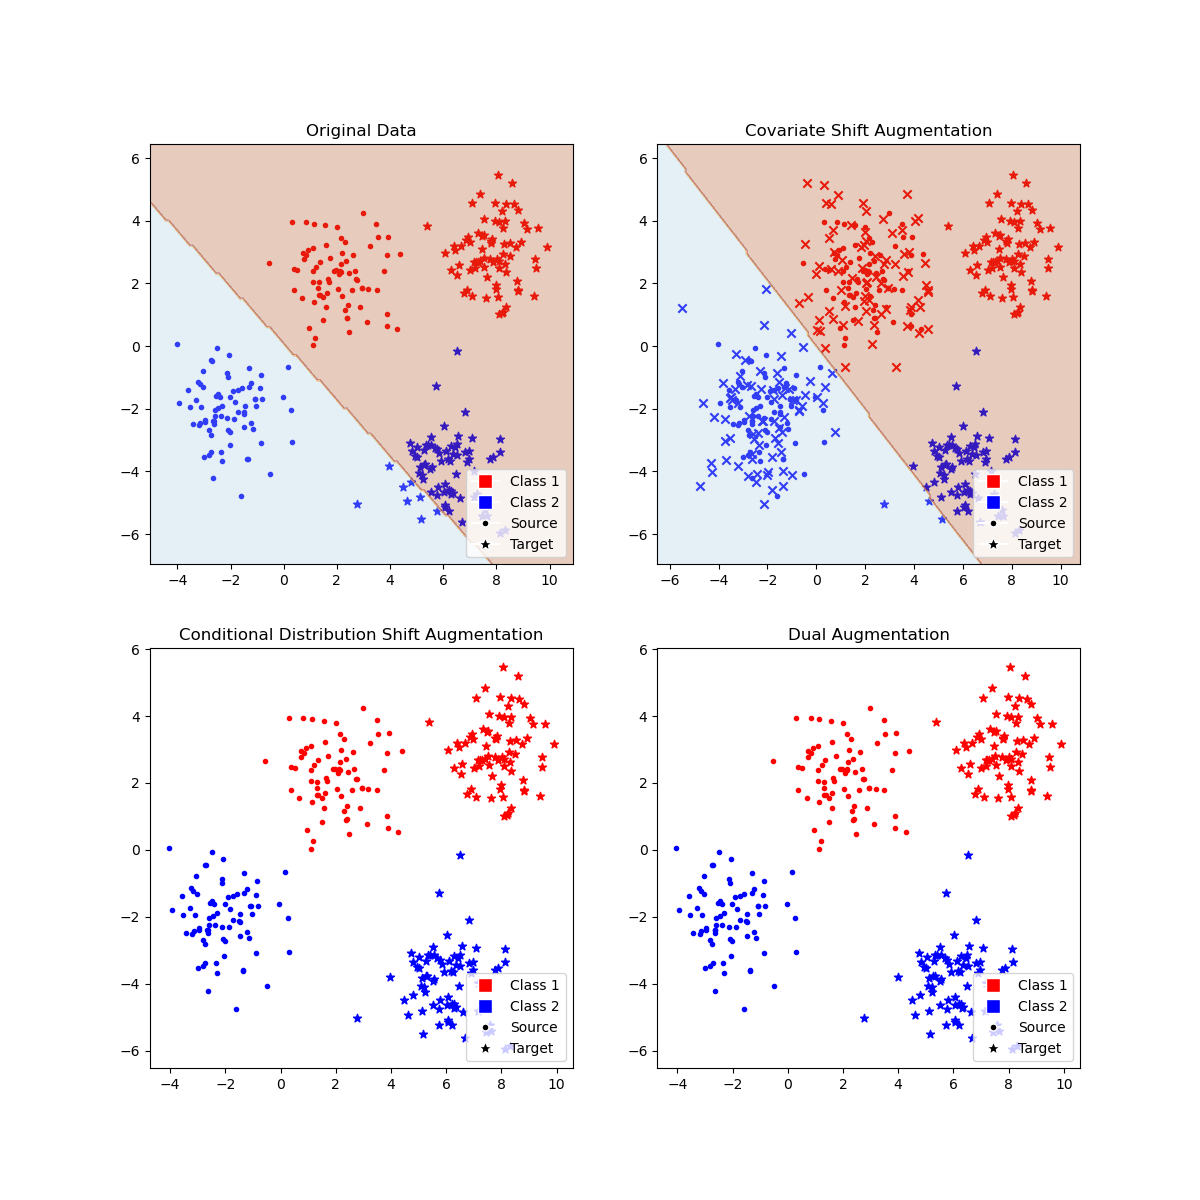
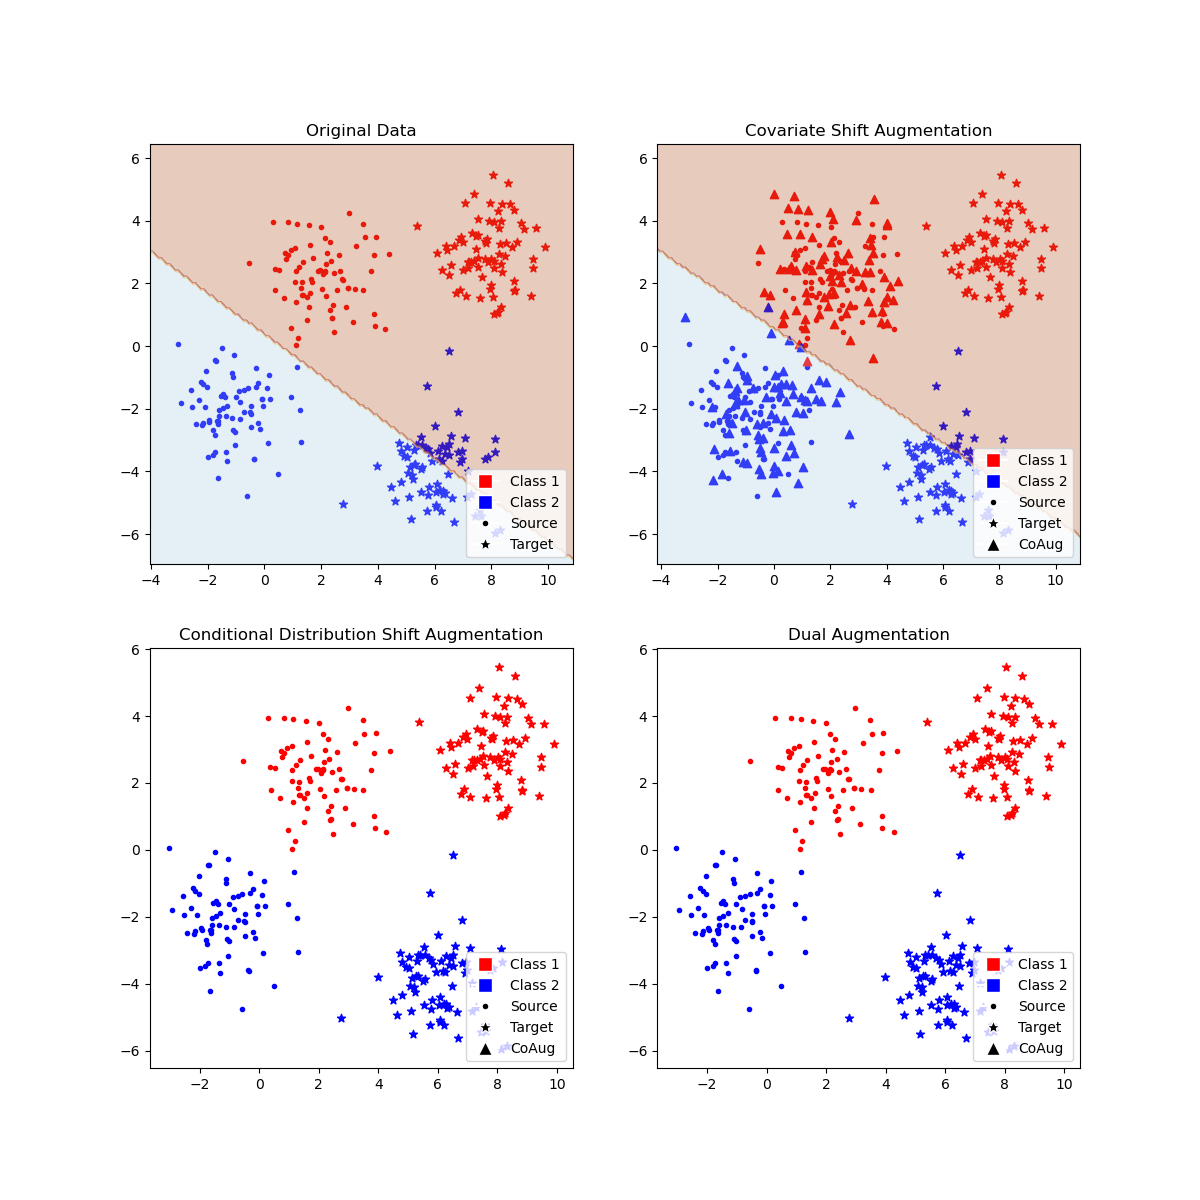
update

diff --git a/data_plot.py b/data_plot.py
@@ -13,6 +13,7 @@ fig, axes = plt.subplots(2, 2, figsize=(12, 12))
 np.random.seed(0)
 s_class_1 = np.random.multivariate_normal([2, 2], [[1, 0], [0, 1]], num_data)
 s_class_2 = np.random.multivariate_normal([-2, -2], [[1, 0], [0, 1]], num_data)
+s_class_2 = s_class_2 + [1, 0]
 np.random.seed(42)
 t_class_1 = np.random.multivariate_normal([2, 2], [[1, 0], [0, 1]], num_data) + [6, 1]
 t_class_2 = np.random.multivariate_normal([-2, -2], [[1, 0], [0, 1]], num_data) + [8, -2]
@@ -43,14 +44,15 @@ axes[0, 0].legend(handles=legend_elements, loc='lower right')
 
 # Covariate Shift Plot
 # Simulate covariate shift by adding some noise
-s_class_1_covariate = s_class_1 + np.random.normal(0, 1, s_class_1.shape)
-s_class_2_covariate = s_class_2 + np.random.normal(0, 1, s_class_2.shape)
+s_class_1_covariate = s_class_1 + np.random.normal(0, 0.75, s_class_1.shape)
+s_class_2_covariate = s_class_2 + np.random.normal(0, 0.75, s_class_2.shape)
+s_class_2_covariate = s_class_2_covariate + [1, 0]
 axes[0, 1].scatter(s_class_1[:, 0], s_class_1[:, 1], color='red', marker='.', label='Class 1 (Source)')
 axes[0, 1].scatter(s_class_2[:, 0], s_class_2[:, 1], color='blue', marker='.', label='Class 2 (Source)')
 axes[0, 1].scatter(t_class_1[:, 0], t_class_1[:, 1], color='red', marker='*', label='Class 1 (Target)')
 axes[0, 1].scatter(t_class_2[:, 0], t_class_2[:, 1], color='blue', marker='*', label='Class 2 (Target)')
-axes[0, 1].scatter(s_class_1_covariate[:, 0], s_class_1_covariate[:, 1], marker='x', color='red', label='Class 1 (Covariate Shift)')
-axes[0, 1].scatter(s_class_2_covariate[:, 0], s_class_2_covariate[:, 1], marker='x', color='blue', label='Class 2 (Covariate Shift)')
+axes[0, 1].scatter(s_class_1_covariate[:, 0], s_class_1_covariate[:, 1], marker='^', color='red', label='Class 1 (Covariate Shift)')
+axes[0, 1].scatter(s_class_2_covariate[:, 0], s_class_2_covariate[:, 1], marker='^', color='blue', label='Class 2 (Covariate Shift)')
 
 x = np.vstack((s_class_1, s_class_1_covariate, s_class_2, s_class_2_covariate))
 y = np.hstack((np.ones(num_data * 2), np.zeros(num_data * 2)))
@@ -63,6 +65,13 @@ xx, yy = np.meshgrid(np.arange(x_min, x_max, 0.1), np.arange(y_min, y_max, 0.1))
 z = clf.predict(np.c_[xx.ravel(), yy.ravel()]).reshape(xx.shape)
 axes[0, 1].contourf(xx, yy, z, alpha=0.3, cmap=plt.cm.Paired)
 axes[0, 1].set_title('Covariate Shift Augmentation')
+legend_elements = [
+    Line2D([0], [0], marker='s', color='w', markerfacecolor='red', markersize=10, label='Class 1'),
+    Line2D([0], [0], marker='s', color='w', markerfacecolor='blue', markersize=10, label='Class 2'),
+    Line2D([0], [0], marker='.', color='w', markerfacecolor='black', markersize=10, label='Source'),
+    Line2D([0], [0], marker='*', color='w', markerfacecolor='black', markersize=10, label='Target'),
+    Line2D([0], [0], marker='^', color='w', markerfacecolor='black', markersize=10, label='CoAug'),
+]
 axes[0, 1].legend(handles=legend_elements, loc='lower right')
 
 # Conditional Distribution Shift Plot
